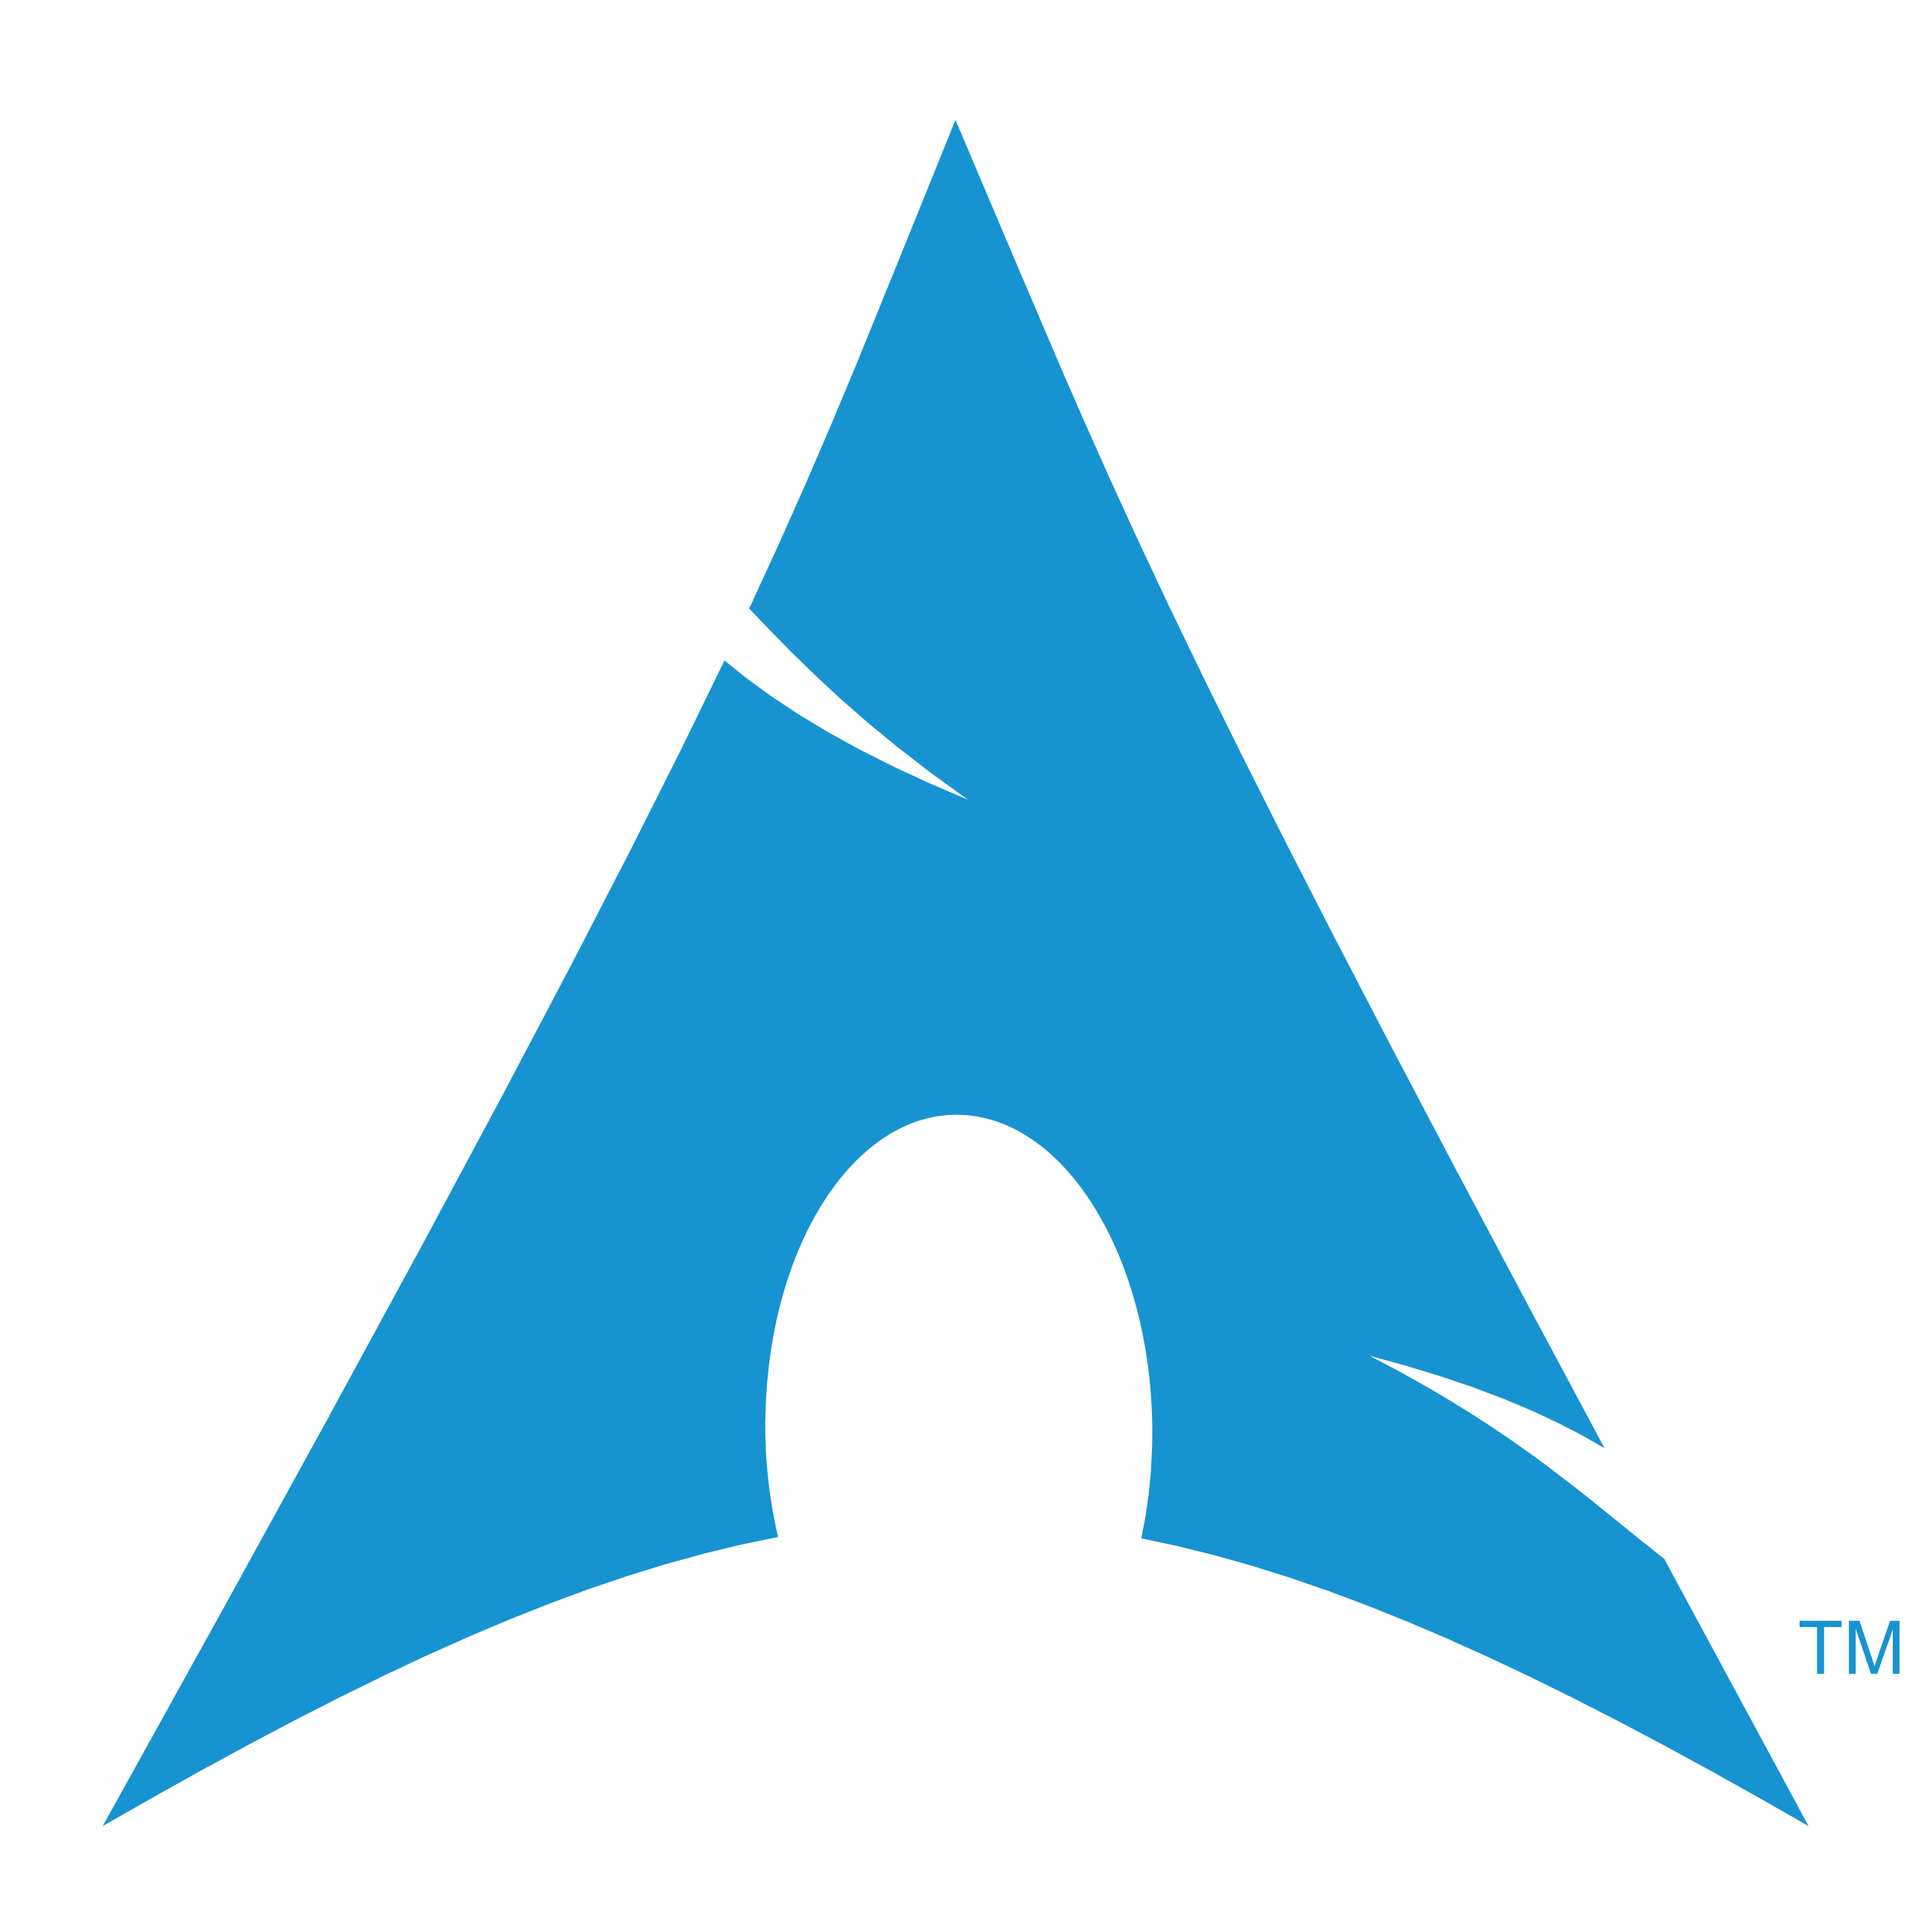
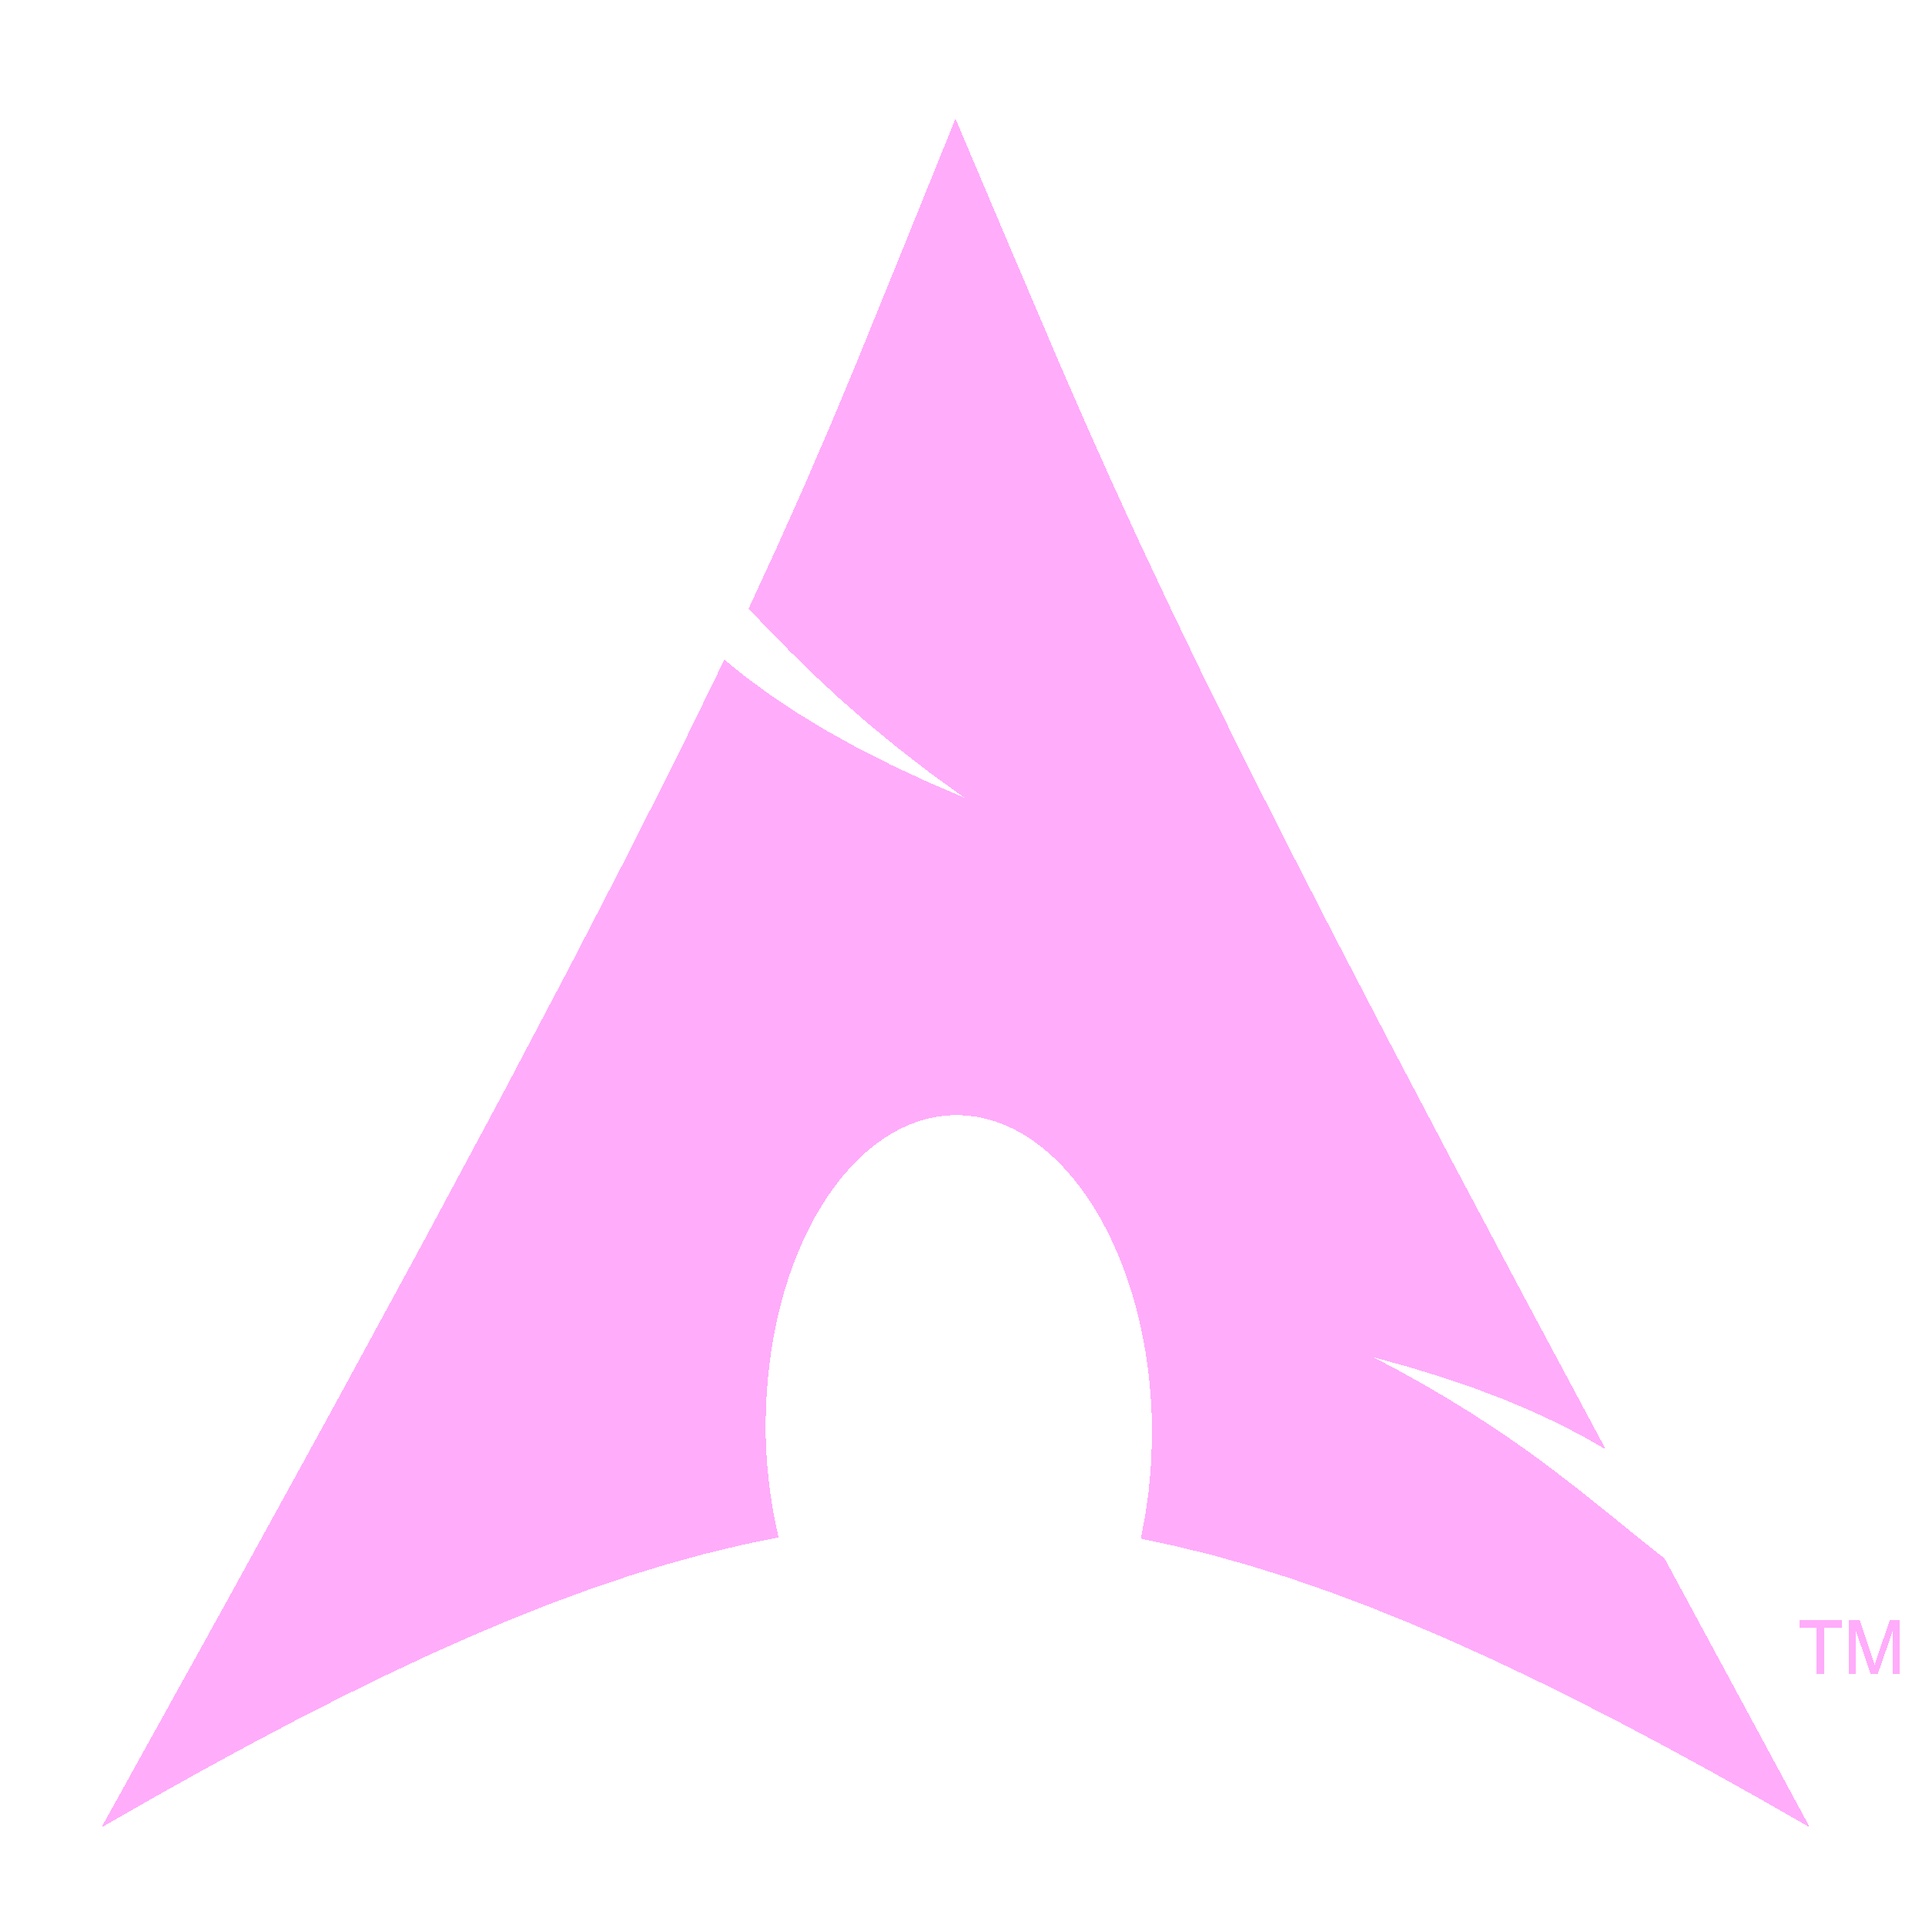
Pinkify

Changed region(s): [[0.0625, 0.0624, 0.9375, 0.936], [0.9375, 0.8424, 1.0, 0.8736]]

diff --git a/styles/text.css b/styles/text.css
@@ -1,6 +1,6 @@
 .text {
     position: relative;
-    color: rgb(219, 219, 219);
+    color: rgb(220, 219, 220);
     line-height: 18px;
 }
 
@@ -8,7 +8,7 @@
     font-family: monospace;
     white-space: pre-wrap;
     color: rgb(224, 224, 219);
-    background-color: rgb(29, 29, 34);
+    background-color: rgb(34, 29, 34);
 }
 
 .textarea {
@@ -19,7 +19,7 @@
     transform: translateX(-50%);
 
     color: white;
-    background-color: rgb(22, 22, 22);
+    background-color: rgb(24, 22, 24);
 
     border-radius: 5px;
     padding: 5px;

diff --git a/styles/containers.css b/styles/containers.css
@@ -9,11 +9,11 @@
     left: 50%;
     transform: translateX(-50%);
 
-    background-color: rgb(32, 32, 35);
+    background-color: rgb(35, 32, 35);
     border-radius: 10px;
     margin: 10px;
 
-    border: 1px solid #4d4d5f;
+    border: 1px solid rgb(95, 77, 95);
 }
 
 .spacer {

diff --git a/styles/body.css b/styles/body.css
@@ -1,4 +1,4 @@
 body {
-    background-color: rgb(18, 18, 20);
+    background-color: rgb(20, 18, 20);
     font-family: "Noto Sans", sans-serif;
 }
